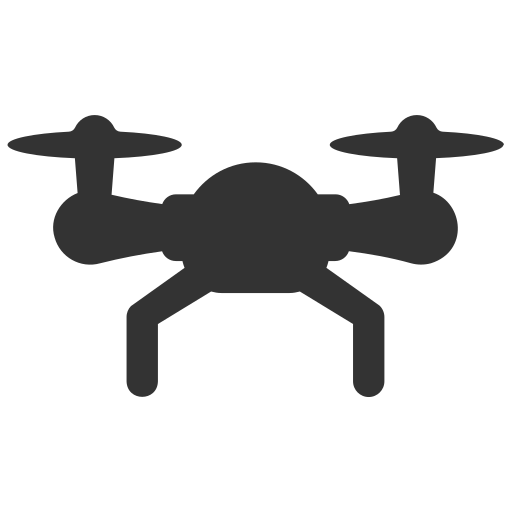
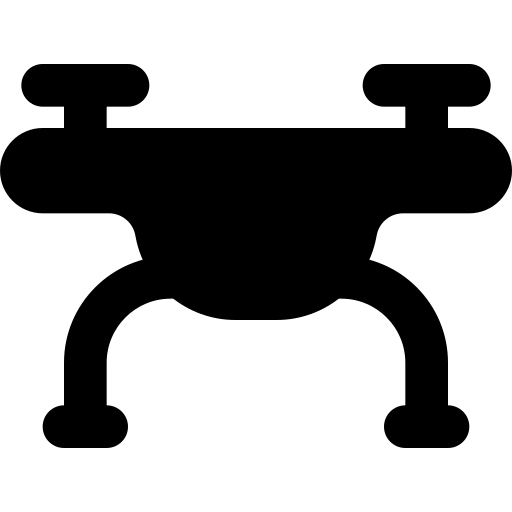
starting console logger, and second map

diff --git a/src/asr_gcs/src/main.cpp b/src/asr_gcs/src/main.cpp
@@ -51,6 +51,7 @@ Location location;
 Color colors;
 TestFunc test_functions;
 InfoPanels info_panels;
+Logs logs;
 
 using namespace std;
 using namespace px4_msgs::msg;
@@ -277,6 +278,7 @@ int main(int argc, char **argv) {
     //bool is_manual = (Info.flight_mode == FlightMode::MANUAL_AIDED); for later:
     bool is_manual = 0;
     bool sat_map = 0;
+    int map_size_x = 800;
 
     std::atomic<bool> tiles_downloading{false};
     bool tiles_download_triggered = false;
@@ -429,7 +431,7 @@ int main(int argc, char **argv) {
         //string infolat = "Long and Lat: " + to_string(Info.gps_status.latitude) + " " + to_string(Info.gps_status.longitude);
         //std::cout << infolat << std::endl;
         if (tiles_downloading.load()) {
-            ImVec2 loading_pos = ImVec2(x_sc / 2.0f - 100 * scale, 10 * scale);
+            ImVec2 loading_pos = ImVec2(x_sc / 2.0f - 100 * scale, 90 * scale);
             draw_list->AddRectFilled(
                 ImVec2(loading_pos.x - 10 * scale, loading_pos.y - 5 * scale),
                 ImVec2(loading_pos.x + 210 * scale, loading_pos.y + 25 * scale),
@@ -540,9 +542,9 @@ int main(int argc, char **argv) {
 
         //--------------------------MAP--------------------------------------------------------------
         if(sat_map){
-            BeginFixedPanel("MapPanel", ImVec2(70 * scale, 70 * scale), ImVec2(1500 * scale, 800 * scale),
+            BeginFixedPanel("MapPanel", ImVec2(70 * scale, 70 * scale), ImVec2(1500 * scale, map_size_x * scale),
                 scale, theme, 0, ImVec2(0, 0));
-            ImVec2 front_map_pos = location.MapWidget(Info.gps_status.latitude, Info.gps_status.longitude, 1500 * scale, 900 * scale, scale, map_zoom, placeholderTile, theme);
+            ImVec2 front_map_pos = location.MapWidget(Info.gps_status.latitude, Info.gps_status.longitude, 1500 * scale, map_size_x * scale, scale, map_zoom, placeholderTile, theme);
             // No task list here to sync selection with, so no highlight and the click result is unused.
             const float overlay_h = std::max(80.0f * scale, mission_bar_top_y - front_map_pos.y);
             DrawPlanRouteOverlay(location, planner.plan(), Info.gps_status.latitude, Info.gps_status.longitude,
@@ -569,9 +571,9 @@ int main(int argc, char **argv) {
 
             EndFixedPanel();
         } else{
-            BeginFixedPanel("NoSatMapPanel", ImVec2(70 * scale, 70 * scale), ImVec2(1500 * scale, 800 * scale),
+            BeginFixedPanel("NoSatMapPanel", ImVec2(70 * scale, 70 * scale), ImVec2(1500 * scale, map_size_x * scale),
                 scale, theme, 0, ImVec2(0, 0));
-            location.NoSatMap(Info.gps_status.latitude, Info.gps_status.longitude, 1500 * scale, 900 * scale, scale, map_zoom, placeholderTile, theme);
+            location.NoSatMap(Info, 1500 * scale, map_size_x * scale, scale, map_zoom, theme);
              if (widgets.DrawCircleGradientButton(draw_list, winInit.getFont(24), 1.0f, ImVec2(130 * scale, 125 * scale), 50.0f * scale, "ESTOP", 40.0f * scale)) {
                 std::cout << "ESTOP Button Clicked!" << std::endl;
             }
@@ -694,6 +696,9 @@ int main(int argc, char **argv) {
         
         info_panels.ResetPanelTracking();
 
+    
+        logs.outputlog(ImVec2(500, 880), scale, theme);
+
 
 
         break;
@@ -709,9 +714,9 @@ int main(int argc, char **argv) {
             const float map_right_margin = map_gap;
             const float map_w = std::max(200.0f * scale, static_cast<float>(x_sc) - map_x - map_right_margin);
             if(sat_map){
-                BeginFixedPanel("PlannerMapPanel", ImVec2(map_x, 70 * scale), ImVec2(map_w, 800 * scale),
+                BeginFixedPanel("PlannerMapPanel", ImVec2(map_x, 70 * scale), ImVec2(map_w, map_size_x * scale),
                         scale, theme, 0, ImVec2(0, 0));
-                ImVec2 planner_map_pos = location.MapWidget(Info.gps_status.latitude, Info.gps_status.longitude, map_w, 800 * scale, scale, map_zoom, placeholderTile, theme);
+                ImVec2 planner_map_pos = location.MapWidget(Info.gps_status.latitude, Info.gps_status.longitude, map_w, map_size_x * scale, scale, map_zoom, placeholderTile, theme);
                 const auto [highlighted_top, highlighted_nested] = planner_panel.highlighted_task();
                 MapTaskClick map_click = DrawPlanRouteOverlay(location, planner.plan(), Info.gps_status.latitude, Info.gps_status.longitude,
                                      Info.gps_status.latitude, Info.gps_status.longitude, map_zoom,
@@ -738,9 +743,9 @@ int main(int argc, char **argv) {
 
             }
             else{
-                BeginFixedPanel("PlannerSatMapPanel", ImVec2(map_x, 70 * scale), ImVec2(map_w, 800 * scale),
+                BeginFixedPanel("PlannerSatMapPanel", ImVec2(map_x, 70 * scale), ImVec2(map_w, map_size_x * scale),
                         scale, theme, 0, ImVec2(0, 0));
-               location.NoSatMap(Info.gps_status.latitude, Info.gps_status.longitude, map_w, 800 * scale, scale, map_zoom, placeholderTile, theme);
+               location.NoSatMap(Info, map_w, map_size_x * scale, scale, map_zoom, theme); 
                EndFixedPanel();
 
             }

diff --git a/src/asr_gcs/src/map.cpp b/src/asr_gcs/src/map.cpp
@@ -1,7 +1,9 @@
 #include "map.h"
-#include "app_window.h"
 #include <ament_index_cpp/get_package_share_directory.hpp>
 
+float map_value(float value, float in_min, float in_max, float out_min, float out_max) {
+    return out_min + (value - in_min) * (out_max - out_min) / (in_max - in_min);
+}
 static GLuint UploadImageToGL(const cv::Mat& img, const char* path)
 {
     if (img.empty()) {
@@ -225,18 +227,24 @@ ImVec2 Location::MapWidget(double lat, double lon, float width, float height, fl
     return pos;
 }
 
-void Location::NoSatMap(double lat, double lon, float width, float height, float scale, int zoom, GLuint placeholderTile, bool theme){
+void Location::NoSatMap(DroneInformation Info, float width, float height, float scale, int zoom, bool theme){
     ImGui::BeginChild("NoSatMapWidget", ImVec2(width, height), false,
                         ImGuiWindowFlags_NoScrollbar |
                         ImGuiWindowFlags_NoScrollWithMouse);
     ImDrawList* draw = ImGui::GetWindowDrawList();
     ImVec2 pos = ImGui::GetWindowPos();
     ImVec2 center = ImVec2(pos.x + width * 0.5f, pos.y + height * 0.5f);
-    float radius = std::min(width, height) * 0.25f; // tweak size to taste
-    ImU32 color = IM_COL32(255, 0, 0, 255); // solid red
-    int segments = 0; // 0 = let ImGui auto-pick smoothness
     
-    draw->AddCircleFilled(center, radius, color, segments);
+    ImVec2 dot_pos;
+    dot_pos.x = map_value(Info.xyz_pos[0], -50.0f, 50.0f, pos.x, pos.x + width);
+    dot_pos.y = map_value(Info.xyz_pos[1], -50.0f, 50.0f, pos.y, pos.y + height);
+
+    draw->AddCircleFilled(dot_pos, 6.0f * scale, IM_COL32(255, 50, 50, 255));
+
+
+
+
+
 
     float roundRadius = 12.0f * scale;
     ImU32 maskColor = ImGui::ColorConvertFloat4ToU32(Color::panelColor(theme));
@@ -271,10 +279,6 @@ void Location::NoSatMap(double lat, double lon, float width, float height, float
     draw->PathArcTo(ImVec2(p_max.x - roundRadius, p_max.y - roundRadius), roundRadius, 0.0f, IM_PI * 0.5f, 8);
     draw->PathFillConvex(maskColor);
 
-    float cx = pos.x + width  / 2.0f;
-    float cy = pos.y + height / 2.0f;
-    draw->AddCircleFilled(ImVec2(cx, cy), 6.0f * scale, IM_COL32(255, 50, 50, 255));
-    draw->AddCircle(ImVec2(cx, cy), 6.0f * scale, IM_COL32(255, 255, 255, 255), 12, 1.5f);
 
     ImGui::EndChild();
 }

diff --git a/src/asr_gcs/src/info_panels.cpp b/src/asr_gcs/src/info_panels.cpp
@@ -248,13 +248,8 @@ void InfoPanels::Battery_Info(float scale, bool theme, float battery_percentage[
         }
     }
 
+    
     float motors_section_y = pos.y + row_start_y + (row_height * 2);
-
-    draw->AddLine(
-        ImVec2(pos.x + 14 * scale, motors_section_y),
-        ImVec2(pos.x + 296 * scale, motors_section_y),
-        Color::panelBorder(theme), 3.0f);
-
     InfoPanels::CollapseButton(draw, ImVec2(pos.x + 290 * scale, pos.y + 10 * scale), scale, Motor_panel_open, theme);
 
     if (Motor_panel_open) {
@@ -293,6 +288,12 @@ void InfoPanels::Battery_Info(float scale, bool theme, float battery_percentage[
             draw->AddText(ImVec2(pos.x + bar_x_start + bar_width + 50 * scale, row_y),
                           Color::dwhite_lblack(theme), motor_text);
         }
+        
+
+        draw->AddLine(
+            ImVec2(pos.x + 14 * scale, motors_section_y),
+            ImVec2(pos.x + 296 * scale, motors_section_y),
+            Color::panelBorder(theme), 3.0f);
     }
 
     InfoPanels::End_panels();
@@ -360,4 +361,27 @@ void InfoPanels::Probe_Info(float scale, bool theme){
     draw->AddText(ImVec2((pos.x + 10), (pos.y + 10)), Color::white_black(theme), "Probe Info");
 
     InfoPanels::End_panels();
+}
+
+void Logs::outputlog(ImVec2 pos, float scale, bool theme){ //!!! Doesent scale correct............
+    ImVec2 size =ImVec2(1070 * scale, 170 * scale);
+    ImGui::SetCursorPos(ImVec2(pos.x * scale, pos.y * scale)); 
+    ImGui::PushStyleColor(ImGuiCol_ChildBg, Color::panelColor(theme));
+    ImGui::PushStyleColor(ImGuiCol_Border, Color::panelBorder(theme));
+    ImGui::PushStyleVar(ImGuiStyleVar_WindowPadding, ImVec2(8 * scale, 8 * scale));
+    ImGui::PushStyleVar(ImGuiStyleVar_ChildRounding, 12.0f * scale);
+    ImGui::PushStyleVar(ImGuiStyleVar_ChildBorderSize, 2.0f * scale);
+    ImGui::BeginChild("ConsoleLogger", size, true,
+                        ImGuiWindowFlags_NoScrollbar |
+                        ImGuiWindowFlags_NoScrollWithMouse);
+    ImDrawList* draw = ImGui::GetWindowDrawList();
+    ImVec2 windowPos = ImGui::GetWindowPos();
+
+
+
+    ImGui::EndChild();
+    ImGui::PopStyleVar(3);
+    ImGui::PopStyleColor(2);
+   
+
 }

diff --git a/src/asr_gcs/include/map.h b/src/asr_gcs/include/map.h
@@ -16,7 +16,9 @@
 #include <vector>
 
 
-#include "statemanager.h"
+#include "state_manager.h"
+#include "app_window.h"
+
 
 
 
@@ -25,14 +27,14 @@
 // Projects a point `north_m`/`east_m` metres from `home_lat`/`home_lon` into an absolute lat/lon, via WGS84.
 void LocalOffsetToLatLon(double home_lat, double home_lon, double north_m, double east_m,
                           double &out_lat, double &out_lon);
-
+float map_value(float value, float in_min, float in_max, float out_min, float out_max);
 class Location {
     public:
         GLuint display_map(const char* path, float scale);
         ImVec2 latLonToTileOffset(double lat, double lon, int zoom);
         GLuint loadTileCached(int zoom, int x, int y);
         ImVec2 MapWidget(double lat, double lon, float width, float height, float scale, int zoom = 12, GLuint placeholdetTile = 0, bool theme = 0);
-        void NoSatMap(double lat, double lon, float width, float height, float scale, int zoom, GLuint placeholderTile, bool theme);
+        void NoSatMap(DroneInformation Info, float width, float height, float scale, int zoom, bool theme);
 
         // Screen position of `lat`/`lon` within a MapWidget -- `widgetPos` must be exactly what that call returned.
         ImVec2 latLonToScreenPos(double lat, double lon, double centerLat, double centerLon,
@@ -45,5 +47,6 @@ class Location {
         std::list<std::string> tileLRU;
         std::unordered_map<std::string, std::list<std::string>::iterator> lruPos;
         static constexpr size_t MAX_CACHED_TILES = 300; 
+        
     
 };

diff --git a/src/asr_gcs/include/info_panels.h b/src/asr_gcs/include/info_panels.h
@@ -14,7 +14,7 @@
 #include <list>  
 #include <vector>
 
-#include "statemanager.h"
+#include "state_manager.h"
 #include "app_window.h"
 
 extern WindowInitializer winInit;
@@ -25,7 +25,7 @@ struct panelInfo {
     int id;
 };
 
-float map_value(float value, float in_min, float in_max, float out_min, float out_max);
+
 
 
 struct Graphs {
@@ -33,7 +33,7 @@ struct Graphs {
                                                     float x1b, float y1b, float x2b, float y2b,
                             float scale);
 };
-
+static float map_value(float value, float in_min, float in_max, float out_min, float out_max);
 
 class InfoPanels {
     public:
@@ -48,6 +48,7 @@ class InfoPanels {
         ImVec2 Begin_panels(const char* id, int y_size, float scale, bool theme);
         void End_panels();
         bool CollapseButton(ImDrawList* draw_list, ImVec2 pos, float scale, bool& isOpen, bool theme);
+        
 };
 
 void BeginFixedPanel(const char* id, ImVec2 pos, ImVec2 size, float scale, bool theme,
@@ -65,3 +66,7 @@ void DrawPanelBackground(ImDrawList* draw_list, ImVec2 pos, ImVec2 size,
                           float rounding, float border_thickness);
 
 void framebuffer_size_callback(GLFWwindow* window, int width, int height);
+
+struct Logs {
+    void outputlog(ImVec2 pos, float scale, bool theme);
+};

diff --git a/src/asr_gcs/script/invert.py b/src/asr_gcs/script/invert.py
@@ -1,6 +1,6 @@
 from PIL import Image
 
-img = Image.open('/home/dksoren/aau_workspace/asr_flightstack/src/asr_gcs/images/f_mode.png').convert('RGBA')
+img = Image.open('/home/dksoren/asr_workspace/asr_flightstack/src/asr_gcs/images/f_mode.png').convert('RGBA')
 r, g, b, a = img.split()
 
 # Invert only RGB channels, keep alpha (transparency) untouched

diff --git a/src/asr_gcs/src/app_window.cpp b/src/asr_gcs/src/app_window.cpp
@@ -124,8 +124,6 @@ ImU32 Color::panelBorder(bool theme){
     }
 }
 
-// ⚠ STUB — this was declared in your header but never implemented in the
-// original interfaceutils.cpp. Replace these placeholder colors with real ones.
 ImU32 Color::dBlue_lGrey(bool theme){
     if (theme) {
         return IM_COL32(43, 43, 82, 255);

diff --git a/src/asr_gcs/include/app_window.h b/src/asr_gcs/include/app_window.h
@@ -15,7 +15,7 @@
 #include <list>  
 #include <vector>
 
-#include "statemanager.h"
+#include "state_manager.h"
 #include "transformations.h"
 
 struct DroneInformation {

diff --git a/src/asr_gcs/include/widgets.h b/src/asr_gcs/include/widgets.h
@@ -15,7 +15,7 @@
 #include <list>  
 #include <vector>
 
-#include "statemanager.h"
+#include "state_manager.h"
 #include "app_window.h"
 
 

diff --git a/src/asr_gcs/include/interfaceutils.h b/src/asr_gcs/include/interfaceutils.h
@@ -14,7 +14,7 @@
 #include <string>
 #include <list>  
 #include <vector>
-#include "statemanager.h"
+
 
 
 
